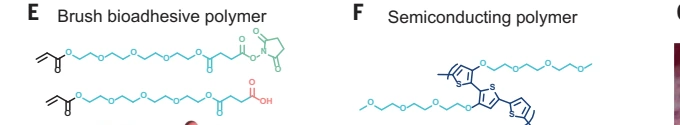
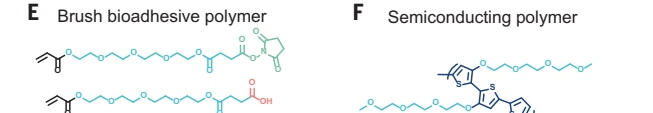
Tighten bioadhesive structure figure crop

diff --git a/scripts/prepare-visual-data.py b/scripts/prepare-visual-data.py
@@ -21,7 +21,7 @@ STRUCTURES = [
     (4, 3, [.585, .08, .92, .24], "PEDOT:Tos 与 PTHF · Fig. 1a"),
     (6, 2, [.08, .39, .69, .505], "BBL 与 CPE-K · Fig. 1e"),
     (7, 3, [.085, .085, .475, .28], "PAAMPSA、PEDOT:PSS 与离子液体 · Fig. 1a"),
-    (8, 2, [.14, .45, .66, .525], "刷状黏附单体与半导体 · Fig. 1E–F"),
+    (8, 2, [.14, .45, .64, .518], "刷状黏附单体与半导体 · Fig. 1E–F"),
     (9, 2, [.07, .26, .94, .35], "P(PyV) 与 DBS · Fig. 1D"),
     (11, 2, [.735, .275, .93, .44], "PAAc 与 p(g2T-T) · Fig. 1C"),
     (12, 3, [.10, .24, .61, .326], "固态电解质组成 · Fig. 1b"),
